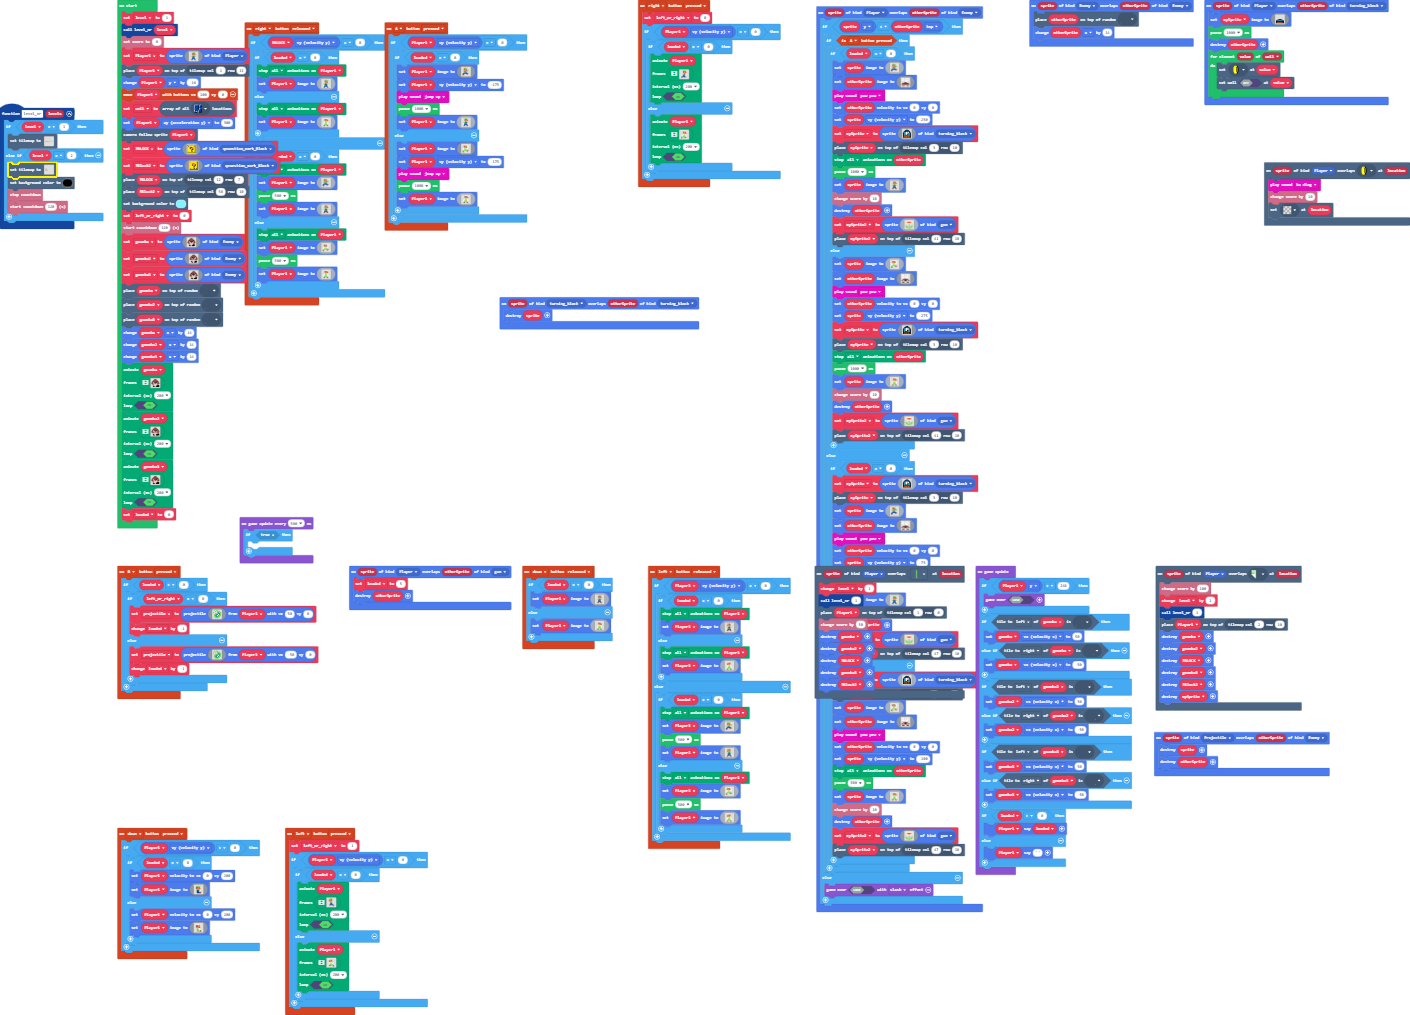
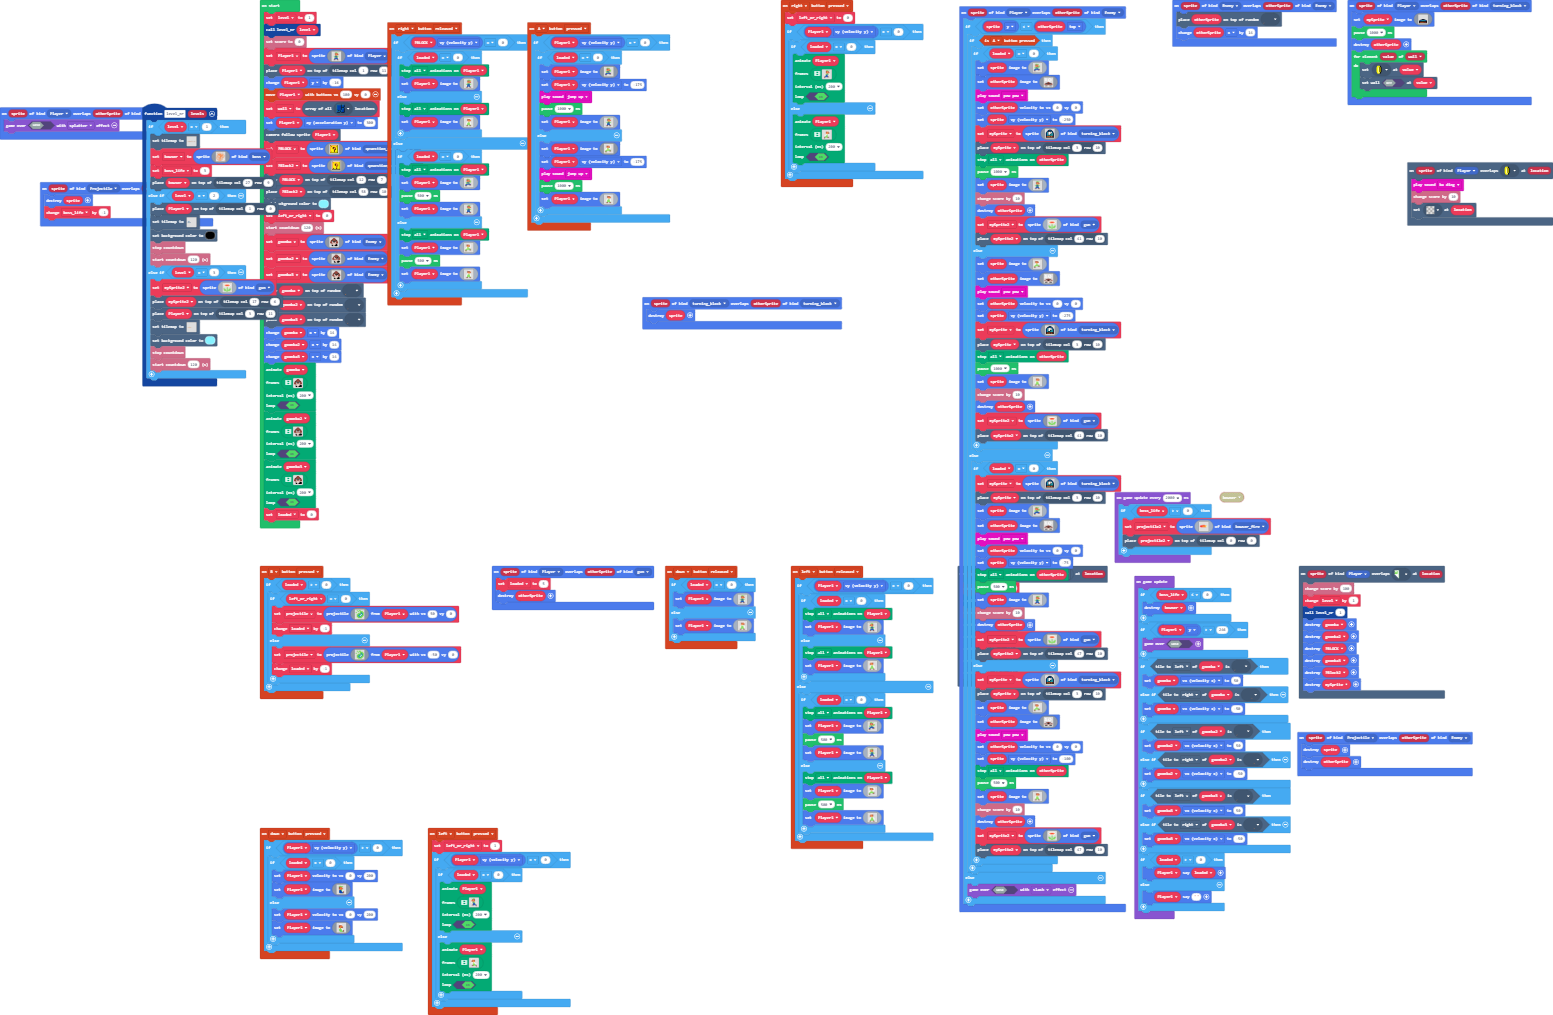
Update pxt.json, main.blocks, main.ts, tilemap.g.jres, tilemap.g.ts

diff --git a/main.ts b/main.ts
@@ -2,7 +2,12 @@ namespace SpriteKind {
     export const qeuestion_mark_Block = SpriteKind.create()
     export const turning_block = SpriteKind.create()
     export const gun = SpriteKind.create()
+    export const boss = SpriteKind.create()
+    export const bowser_fire = SpriteKind.create()
 }
+sprites.onOverlap(SpriteKind.Player, SpriteKind.boss, function (sprite, otherSprite) {
+    game.over(false, effects.splatter)
+})
 controller.B.onEvent(ControllerButtonEvent.Pressed, function () {
     if (loaded > 0) {
         if (left_or_right == 0) {
@@ -761,7 +766,6 @@ controller.right.onEvent(ControllerButtonEvent.Pressed, function () {
 scene.onOverlapTile(SpriteKind.Player, myTiles.tile6, function (sprite, location) {
     level += 1
     level_nr(1)
-    tiles.placeOnTile(Player1, tiles.getTileLocation(1, 0))
     info.changeScoreBy(50)
     goomba.destroy()
     goomba2.destroy()
@@ -860,8 +864,45 @@ function level_nr (levels: number) {
             .....2..2.................................2...2...222222222222.22......2222.....
             .....2..2.................................2...2..............2.2................
             `, [myTiles.transparency16,myTiles.tile1,myTiles.tile6,myTiles.tile7,myTiles.tile8,myTiles.tile10,myTiles.tile11,myTiles.tile13,myTiles.tile14,myTiles.tile15,myTiles.tile16,myTiles.tile17,myTiles.tile18,myTiles.tile19,myTiles.tile3,myTiles.tile2,myTiles.tile4,myTiles.tile5,myTiles.tile9], TileScale.Sixteen))
+        bowser = sprites.create(img`
+            .....44444444444................
+            ....4..........4.....4444.......
+            ...4...........4.....4..4.......
+            ...4.....44.....4....4...4......
+            ...4....444444444....4...4......
+            ....4..444..4...44...4....4.....
+            .....444..444444.4...44....4....
+            .....444444.4444444..444...4....
+            .....4444...444.444444.4..44444.
+            .4444444.4..444..4444.4444.4..4.
+            4...4.4..44.444..4.4..44...4..4.
+            4..44.4...444444.4444444....4..4
+            4..4...4...4.44444444.44....4..4
+            4.4....4...4.4444.44.444...4...4
+            4.4....4....4444444.44.4...4..4.
+            4.4....4.....4444444.4.4..4...4.
+            4444...4......44444..44.4.4...4.
+            44.4....4....44.44...44.44....4.
+            44..444.4....4444....44..44444..
+            44.....444444.444....44.44......
+            44.......44444444...4.44........
+            44........444.4.4444444.........
+            44......44.4.444....4..4........
+            44.....4..4..444...4...4........
+            44.4444..44..444...4...4........
+            444......4..44.4...4..4.........
+            ...4....44..44.4..4...4.........
+            ...4...4.4.4.4.4..4...4....11111
+            ...4444.4..4.4.4..4...4....11111
+            ........4..4.4.4.4..44....11411.
+            .......4...4.4.44444.....1114444
+            .......44444444444.......4......
+            `, SpriteKind.boss)
+        boss_life = 3
+        tiles.placeOnTile(bowser, tiles.getTileLocation(27, 9))
     } else if (level == 2) {
[1 lines of base64/hex data omitted]
+        tiles.placeOnTile(Player1, tiles.getTileLocation(1, 0))
[1 lines of base64/hex data omitted]
             ....2.............2.............................................................
             ....2.............2.............................................................
             ....2.............2.............................................................
@@ -872,23 +913,70 @@ function level_nr (levels: number) {
             ................................................................................
             ...........2....................................................................
             .........2.2.2..................................................................
-            .......2.2.2.2.2................................................................
+            .......2.2.2.2.2............2...................................................
             222222222222222222...222222222..................................................
             .................2...2.......2..................................................
             .................2...2.......2..................................................
             .................2...2.......2..................................................
             .................2...2.......2..................................................
-            `, [myTiles.transparency16,myTiles.tile5,myTiles.tile12,myTiles.tile20,myTiles.tile21,myTiles.tile22,myTiles.tile23,myTiles.tile24,myTiles.tile25,myTiles.tile9,myTiles.tile26,myTiles.tile27], TileScale.Sixteen))
+            `, [myTiles.transparency16,myTiles.tile5,myTiles.tile12,myTiles.tile20,myTiles.tile21,myTiles.tile22,myTiles.tile23,myTiles.tile24,myTiles.tile25,myTiles.tile9,myTiles.tile26,myTiles.tile27,myTiles.tile1,myTiles.tile6,myTiles.tile7,myTiles.tile8], TileScale.Sixteen))
         scene.setBackgroundColor(15)
+        info.stopCountdown()
+        info.startCountdown(120)
+    } else if (level == 3) {
+        mySprite2 = sprites.create(img`
+            .....11111111.....
+            ...111111111111...
+            ..11144444444111..
+            .1144422222244411.
+            .1144422222244411.
+            ..11144444444111..
+            ...111111111111...
+            .....11111111.....
+            ........77........
+            ........77........
+            ........77........
+            7777....77....7777
+            .7777...77...7777.
+            .77777..77..77777.
+            ..77777.77.77777..
+            ..77777.77.77777..
+            ...777777777777...
+            .......7777.......
+            `, SpriteKind.gun)
+        tiles.placeOnTile(mySprite2, tiles.getTileLocation(17, 6))
+        tiles.placeOnTile(Player1, tiles.getTileLocation(3, 11))
+        tiles.setTilemap(tiles.createTilemap(hex`500010000000000000000000000000000000000000000000000000000000000000000000000000000000000000000000000000000000000000000000000000000000000000000000000000000000000000000000000000000000000000000000000000000000000000000000000000000000000000000000000000000000000000000000000000000000000000000000000000000000000000000000000000000000000000000000000000000000000000000000000000000000000000000000000000000000000000000000000000000000000000000000000000000000000000000000000000000000000000000000000000000000000000000000000000000000000000000000000000000000000000000000000000000000000000000000000000000000000000000000000000000000000000000000000000000000000000000000000000000000000000000000000000000000000000000000000000000000000000000000000000000000000000000000000000000000000000000000000000000000000000000000000000000000000000000000000000000000000000000000000000000000000000000000000000000000000000000000000000000000000000000000000000000000000000000000000000000000000000000000000000000000000000000000000000000000000000000000000000000000000000000000000000000000000000000000000000000000000000000000000000000000000000000000000000000000000000000000000000000000000000000000000000000203040000000000000000000000000000000000000000000000000000000000000000000000000000000000000000000000000000000000000000000000000000000000000000000000000000000000050706000000000000000000000000000000000000000000000000000000000000000000000000000000000000000000000000000000000000000000000000000000000000000000000000000000000005070600000000000000000000000000000000000000000002040000000000000000000000000000000000000000000000000000000000000000000000000000000000000000000000000000000000000507060000000203030303030303040000000000000000000506000000000000000000000000000000000000000000000000000000000000000000000000000000000000000000000000000000000002030303040000050707070707070706000000000000000000050600000000000000000000000000000000000000000000000000000000000000000000000000000101010101010101010101010100000507070706000005070707070707070600000000000000000005060000000000000000000000000000000000000000000000000000000000000000000000000000010101010101010101010101010000050707070600000507070707070707060000000002040000000506000000000000000000000000000000000000000000000000000000000000000000000000000001010101010101010101010101000005070707060000050707070707070706000000000506000000050600000000000000000000000000000000000000000000000000000000000000000000000000000101010101010101010101010100000507070706000005070707070707070600000000050600000005060000000000000000000000000000000000000000000000000000000000000000000000000000`, img`
+            ................................................................................
+            ................................................................................
+            ................................................................................
+            ................................................................................
+            ................................................................................
+            ................................................................................
+            ................................................................................
+            ................222.............................................................
+            ................................................................................
+            ........................................22......................................
+            ......................222222222.................................................
+            ...............22222............................................................
+            2222222222222...................................................................
+            ............2......................22...........................................
+            ............2...................................................................
+            ............2...................................................................
+            `, [myTiles.transparency16,myTiles.tile17,myTiles.tile28,myTiles.tile29,myTiles.tile30,myTiles.tile31,myTiles.tile32,myTiles.tile33], TileScale.Sixteen))
+        scene.setBackgroundColor(9)
         info.stopCountdown()
         info.startCountdown(120)
     }
 }
+sprites.onOverlap(SpriteKind.Projectile, SpriteKind.boss, function (sprite, otherSprite) {
+    sprite.destroy()
+    boss_life += -1
+})
 scene.onOverlapTile(SpriteKind.Player, myTiles.tile1, function (sprite, location) {
     info.changeScoreBy(100)
     level += 1
     level_nr(1)
-    tiles.placeOnTile(Player1, tiles.getTileLocation(2, 10))
     goomba.destroy()
     goomba2.destroy()
     BLOCK.destroy()
@@ -1343,7 +1431,10 @@ sprites.onOverlap(SpriteKind.Player, SpriteKind.Enemy, function (sprite, otherSp
         game.over(false, effects.slash)
     }
 })
+let projectile2: Sprite = null
 let mySprite2: Sprite = null
+let boss_life = 0
+let bowser: Sprite = null
 let mySprite: Sprite = null
 let projectile: Sprite = null
 let loaded = 0
@@ -1609,6 +1700,9 @@ true
 )
 loaded = 0
 game.onUpdate(function () {
+    if (boss_life <= 0) {
+        bowser.destroy()
+    }
     if (Player1.y > 246) {
         game.over(false)
     }
@@ -1633,8 +1727,26 @@ game.onUpdate(function () {
         Player1.say("")
     }
 })
-game.onUpdateInterval(500, function () {
-    if (true) {
-    	
+game.onUpdateInterval(2000, function () {
+    if (boss_life > 0) {
+        projectile2 = sprites.create(img`
+            ................................
+            ................................
+            ..............2222..............
+            ........222222222222............
+            ...22222222222222222222444......
+            ..22222224444444444444455555....
+            .222222444455445555555515111....
+            22222224444455555555555111111...
+            22222222444445544444445555111...
+            ..2222222222222222224444455.....
+            ....222222222222222222224.......
+            ................................
+            ................................
+            ................................
+            ................................
+            ................................
+            `, SpriteKind.bowser_fire)
+        tiles.placeOnTile(projectile2, tiles.getTileLocation(0, 0))
     }
 })

diff --git a/tilemap.g.ts b/tilemap.g.ts
@@ -56,6 +56,18 @@ namespace myTiles {
     export const tile26 = image.ofBuffer(hex``);
     //% fixedInstance jres blockIdentity=images._tile
     export const tile27 = image.ofBuffer(hex``);
+    //% fixedInstance jres blockIdentity=images._tile
+    export const tile28 = image.ofBuffer(hex``);
+    //% fixedInstance jres blockIdentity=images._tile
+    export const tile29 = image.ofBuffer(hex``);
+    //% fixedInstance jres blockIdentity=images._tile
+    export const tile30 = image.ofBuffer(hex``);
+    //% fixedInstance jres blockIdentity=images._tile
+    export const tile31 = image.ofBuffer(hex``);
+    //% fixedInstance jres blockIdentity=images._tile
+    export const tile32 = image.ofBuffer(hex``);
+    //% fixedInstance jres blockIdentity=images._tile
+    export const tile33 = image.ofBuffer(hex``);
 
 }
 // Auto-generated code. Do not edit.
